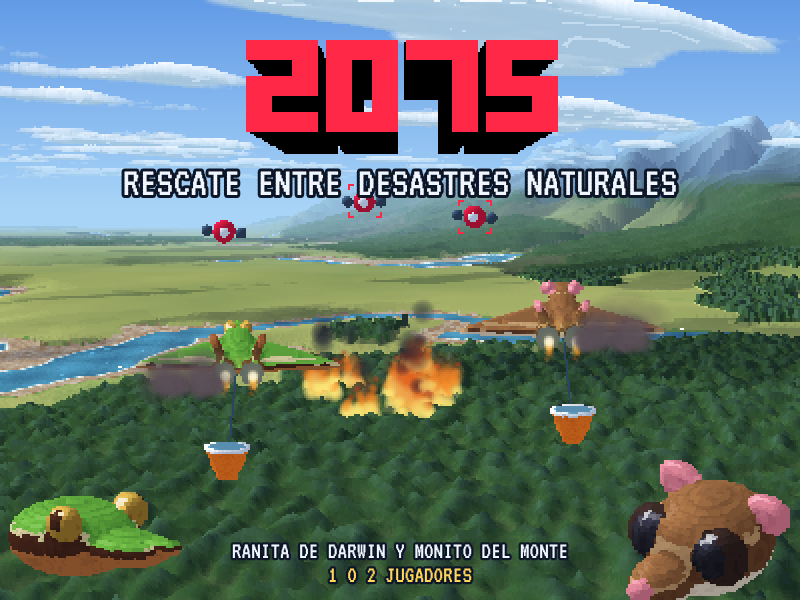
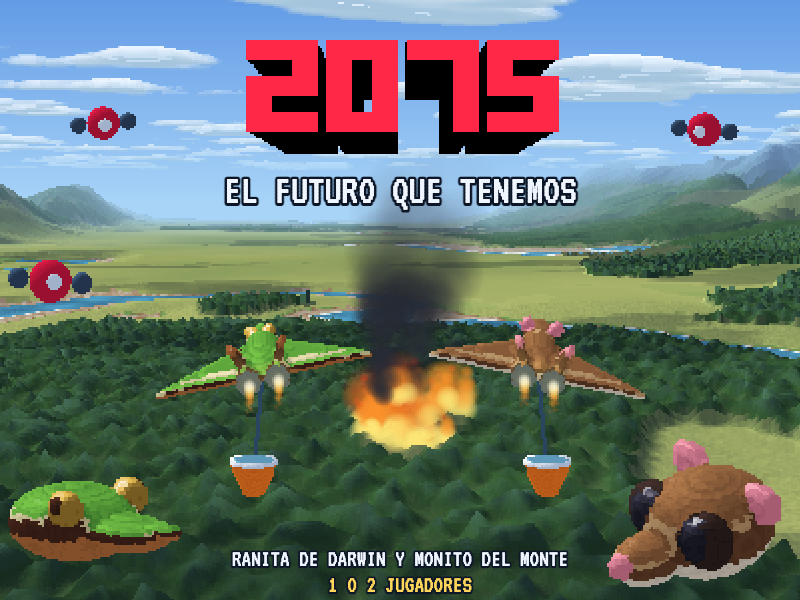
Arcade release v1

diff --git a/game.js b/game.js
@@ -900,28 +900,33 @@ let gT = 0; // seconds in this mode
 let gWho = null; // whose initials they are
 let gName = ''; // initials being entered for the table of records, if the flight earned a place
 let gPos = 0; // which of the three is being chosen
-// The five best flights, [initials, score], best first: kept by the cabinet between visits
-// (or by the browser, away from it).
-let BEST = [];
-let KEY = '2075.top';
+// The five best flights, [initials, score], best first: one table for pilots flying alone
+// (0) and one for pairs (1), where each shares the drones and has a partner's help. Kept by
+// the cabinet between visits (or by the browser, away from it).
+let TOPS = [[], []];
+let gTab = 0; // which table: the flight's, at its end; on the title, each in turn
+let KEY = (m) => '2075.top' + (m ? 2 : '');
 function loadTop() {
-  let take = (v) => {
-    if (Array.isArray(v)) BEST = v.filter((e) => Array.isArray(e) && e[1] > 0).slice(0, 5);
-  };
-  try {
-    let safe = window.platanusArcadeStorage;
-    if (safe) safe.get(KEY).then((r) => r.found && take(r.value), () => {});
-    else take(JSON.parse(localStorage.getItem(KEY)));
-  } catch (e) {}
+  [0, 1].forEach((m) => {
+    let take = (v) => {
+      if (Array.isArray(v)) TOPS[m] = v.filter((e) => Array.isArray(e) && e[1] > 0).slice(0, 5);
+    };
+    try {
+      let safe = window.platanusArcadeStorage;
+      if (safe) safe.get(KEY(m)).then((r) => r.found && take(r.value), () => {});
+      else take(JSON.parse(localStorage.getItem(KEY(m))));
+    } catch (e) {}
+  });
 }
 function saveTop() {
-  BEST.push([gName, gWho.sc]);
+  let B = TOPS[gTab];
+  B.push([gName, gWho.sc]);
   gWho.ok = 1;
-  BEST.sort((a, b) => b[1] - a[1]).length = Math.min(5, BEST.length);
+  B.sort((a, b) => b[1] - a[1]).length = Math.min(5, B.length);
   try {
     let safe = window.platanusArcadeStorage;
-    if (safe) safe.set(KEY, BEST).catch(() => {});
-    else localStorage.setItem(KEY, JSON.stringify(BEST));
+    if (safe) safe.set(KEY(gTab), B).catch(() => {});
+    else localStorage.setItem(KEY(gTab), JSON.stringify(B));
   } catch (e) {}
 }
 let gSpawnT = 0;
@@ -1082,7 +1087,7 @@ function heal(n, who) {
   for (let f of them(who)) f.sh = Math.min(100, f.sh + n);
 }
 
-// kind: 0 exhaust · 1 flame · 2 flash · 3 water · 4 dust · 5 black smoke · 6 a solid piece of wreckage
+// kind: 0 (unused) · 1 flame · 2 flash · 3 water · 4 dust · 5 black smoke · 6 a solid piece of wreckage
 function puff(x, y, z, vx, vy, vz, life, kind, size) {
   let o = puffHead * PUFF_F;
   puffHead = (puffHead + 1) % PUFF_N;
@@ -1108,7 +1113,8 @@ function boom(x, y, z, n) {
 
 // Whose initials are wanted next: the first of the team with a place in the table.
 function next() {
-  gWho = team.find((f) => !f.ok && f.sc && (!BEST[4] || f.sc > BEST[4][1]));
+  let B = TOPS[gTab];
+  gWho = team.find((f) => !f.ok && f.sc && (!B[4] || f.sc > B[4][1]));
   gName = gWho ? 'AAA' : '';
   gPos = 0;
 }
@@ -1123,6 +1129,7 @@ function damage(d, who) {
     else {
       gMode = OVER;
       gT = 0;
+      gTab = team.length - 1; // alone, or a pair (even if the partner came in late)
       next();
     }
   }
@@ -1180,6 +1187,7 @@ function startGame(two) {
   talk.length = talkT = told = news = 0;
   tone(220, 880, 0.5, 'triangle', 0.1);
   // no briefing: the stick now, and everything else when it is first needed
+  tell(0, 'AÑO 2075. EL PLANETA SE CALENTÓ 3 GRADOS\nY LAS IA QUE LO VIGILABAN YA NO OBEDECEN.');
   tell(0, 'PALANCA: ATRÁS SUBE, ADELANTE BAJA.\nMANTENLA A UN LADO PARA VIRAR EN SECO.');
   if (two) join();
 }
@@ -1221,7 +1229,10 @@ function modelPoint(f, ma, mb, mc, out, o) {
 
 function spawnDrone(k) {
   if (k) tell(0, '¡UN DRON HACKER! DERRÍBALO O HAZ UN\nGIRO (BOTÓN 2 O 3) ANTES DE QUE ENTRE.', 2);
-  else tell(1, 'BOTÓN 1 DISPARA. LOS DRONES ORBITAN Y SE\nLANZAN: DERRÍBALOS O ESQUIVA CON 2 O 3.', 1);
+  else {
+    tell(1, 'BOTÓN 1 DISPARA. LOS DRONES ORBITAN Y SE\nLANZAN: DERRÍBALOS O ESQUIVA CON 2 O 3.', 1);
+    tell(0, 'SON DRONES DE LA RED QUE IBA A SALVARNOS.\nAHORA ATACAN TODO LO QUE VUELA.', 32);
+  }
   // they come in from one flank or the other, tougher with each emergency. A drone loiters,
   // circling the crew (for less time the longer the flight has lasted), and then dives at one
   // of them; a hacker takes enough killing to get its hack started
@@ -1282,7 +1293,7 @@ function startFire() {
   siren();
   say('¡INCENDIO FORESTAL!');
   tell(1, '¡INCENDIO! SIGUE LA FLECHA AL AGUA, MOJA EL\nBALDE Y SUÉLTALA SOBRE EL FUEGO CON B5.', 8);
-  if (dry() > 0.3) tell(0, 'ALTAS TEMPERATURAS, BAJA HUMEDAD Y VIENTO\nFUERTE: EL FUEGO AVANZA MÁS RÁPIDO.', 512);
+  tell(0, 'EL CALENTAMIENTO SECÓ ESTOS BOSQUES: CON\nCALOR Y VIENTO, EL FUEGO CORRE MÁS RÁPIDO.', 512);
   return true;
 }
 
@@ -1330,6 +1341,7 @@ function startFlood() {
   siren();
   say('¡TORMENTA!');
   tell(1, 'LLUEVE FUERTE Y EL RÍO SE VA A DESBORDAR:\nPASA BAJITO Y SACA A LA GENTE DE LA ORILLA.', 16);
+  tell(0, 'CON EL CLIMA DE AHORA, LLUEVE EN UN DÍA LO\nQUE ANTES LLOVÍA EN UN MES.', 256);
   return true;
 }
 
@@ -1610,13 +1622,6 @@ function simulate(dt) {
         f.trail[s][o + 2] = f.tip[s * 3 + 2];
       }
     }
-    if (gMode !== OVER && f.thr > 0.6 && rand() < dt * 50) {
-      for (let nz2 of NOZZLES) {
-        modelPoint(f, nz2[0], nz2[1] - 6, nz2[2], TIP, 0);
-        puff(TIP[0], TIP[1], TIP[2], -nx * 9 + spread() * 1.5, -ny * 9 + spread() * 1.5, 1 + rand() * 1.5, 0.9 + rand() * 0.6, 0, 0.5);
-      }
-    }
-
     // ── its camera: behind it and a little above, swinging round after it in a turn and
     // trailing it for a moment when it slides sideways
     let c = f.c;
@@ -2436,10 +2441,10 @@ function drawFlames(f, s) {
   }
 }
 
-// Everything soft and round that drifts: exhaust, flames, flashes, spray, dust, black smoke.
-let PUFF_COL = [pack(96, 84, 92), 0, pack(255, 255, 255), pack(110, 180, 230), pack(150, 125, 95), pack(40, 44, 54)];
+// Everything soft and round that drifts: flames, flashes, spray, dust, black smoke.
+let PUFF_COL = [0, 0, pack(255, 255, 255), pack(110, 180, 230), pack(150, 125, 95), pack(40, 44, 54)];
 let FLAMES = [pack(255, 232, 120), pack(255, 150, 44), pack(214, 60, 30)];
-let PUFF_DENSE = [110, 255, 255, 200, 150, 220];
+let PUFF_DENSE = [0, 255, 255, 200, 150, 220];
 function drawPuffs() {
   for (let o = 0; o < puffs.length; o += PUFF_F) {
     let age = puffs[o + 6];
@@ -2871,12 +2876,12 @@ function drawHud() {
   let blink = (now * 2) & 1;
   if (gMode !== PLAY) {
     let over = gMode === OVER;
-    text('INCENDIOS, ALUVIONES Y DRONES DE IA ENEMIGA ASOLAN CHILE', CXS, 8, INK, 1, 1);
+    text('CHILE, 2075: EL CALENTAMIENTO Y LA IA SE NOS FUERON DE LAS MANOS', CXS, 8, INK, 1, 1);
     text('RANITAS Y MONITOS SÚPER INTELIGENTES PILOTEAN LA DEFENSA', CXS, 21, DIM, 1, 1);
     if (over) text('FIN DEL VUELO', CXS, 62, INK, 4, 1);
     else {
       logo(44);
-      text('RESCATE ENTRE DESASTRES NATURALES', CXS, 106, INK, 2, 1);
+      text('EL FUTURO QUE TENEMOS', CXS, 106, INK, 2, 1);
     }
     let naming = over && gName && gPos < 3;
     if (over) text(team.map((f) => NAMES[f.id] + ' ' + f.sc).join(' · '), CXS, 104, GOLD, 2, 1);
@@ -2904,8 +2909,10 @@ function drawHud() {
         );
       // the table of records
       // (under the advice at the end of a flight; on the title down the left, clear of the show)
-      if (BEST[0] && !over) text('MEJORES VUELOS', 10, 168, INK);
-      BEST.forEach((e, i) => text(i + 1 + '. ' + e[0] + ' ' + String(e[1]).padStart(6, '0'), over ? CXS : 10, (over ? 142 : 183) + i * 12, i ? DIM : GOLD, 1, over));
+      if (!over) gTab = TOPS[1][0] ? ((now / 6) | 0) & 1 : 0;
+      let B = TOPS[gTab];
+      if (B[0] && !over) text('MEJORES VUELOS · ' + (gTab + 1) + 'P', 10, 168, INK);
+      B.forEach((e, i) => text(i + 1 + '. ' + e[0] + ' ' + String(e[1]).padStart(6, '0'), over ? CXS : 10, (over ? 142 : 183) + i * 12, i ? DIM : GOLD, 1, over));
     }
     face(0, 34, BH - 28, 2.5);
     face(1, BW - 34, BH - 28, 2.5, 1);
@@ -3208,10 +3215,13 @@ function update(time, delta) {
   let go = pressed.START1 || pressed.START2 || pressed.P1_1 || pressed.P2_1;
   if (gMode === OVER && gName && gPos < 3) {
     // initials for the table: the stick changes the letter, a button takes it (and a
-    // cabinet left alone takes them as they stand)
+    // cabinet left alone for half a minute takes them as they stand; every touch of the
+    // stick or a button starts that half minute again)
     let up = pressed.P1_D || pressed.P2_D;
-    if (up || pressed.P1_U || pressed.P2_U) gName = gName.slice(0, gPos) + String.fromCharCode(65 + ((gName.charCodeAt(gPos) - 65 + (up ? 1 : 25)) % 26)) + gName.slice(gPos + 1);
-    if ((go || gT > 20) && ++gPos > 2) {
+    let turn = up || pressed.P1_U || pressed.P2_U;
+    if (turn || go) gT = 0;
+    if (turn) gName = gName.slice(0, gPos) + String.fromCharCode(65 + ((gName.charCodeAt(gPos) - 65 + (up ? 1 : 25)) % 26)) + gName.slice(gPos + 1);
+    if ((go || gT > 30) && ++gPos > 2) {
       saveTop();
       next(); // (their partner's turn, if they have a place too)
       gT = gName ? 0 : 7; // the table stays up a while, and then it is back to the title
